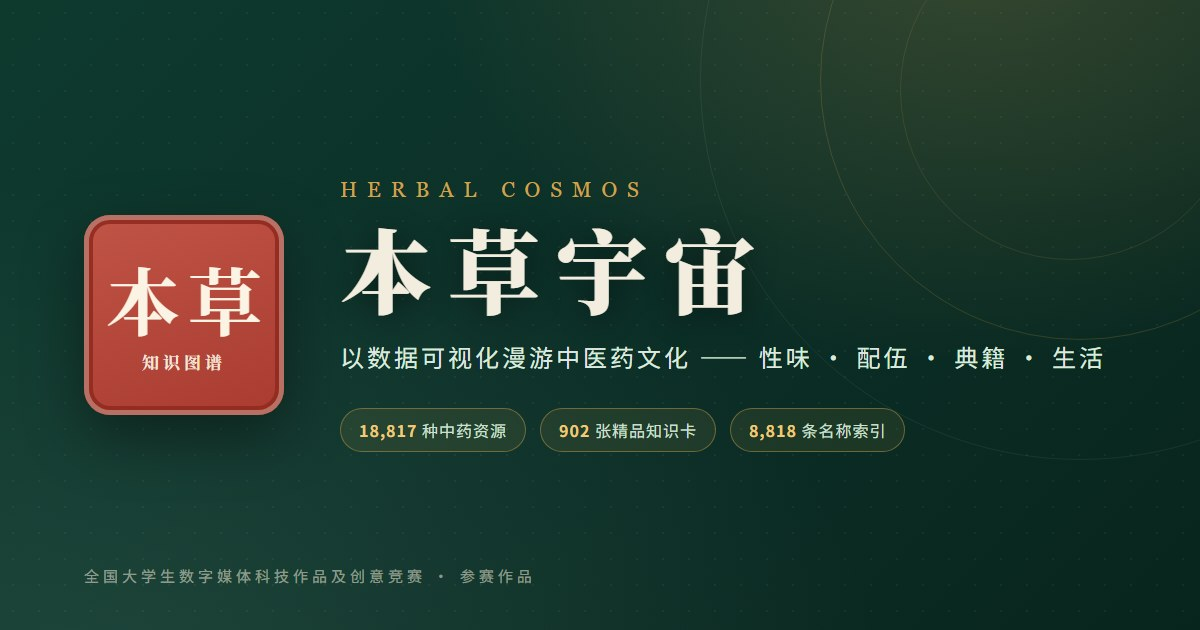
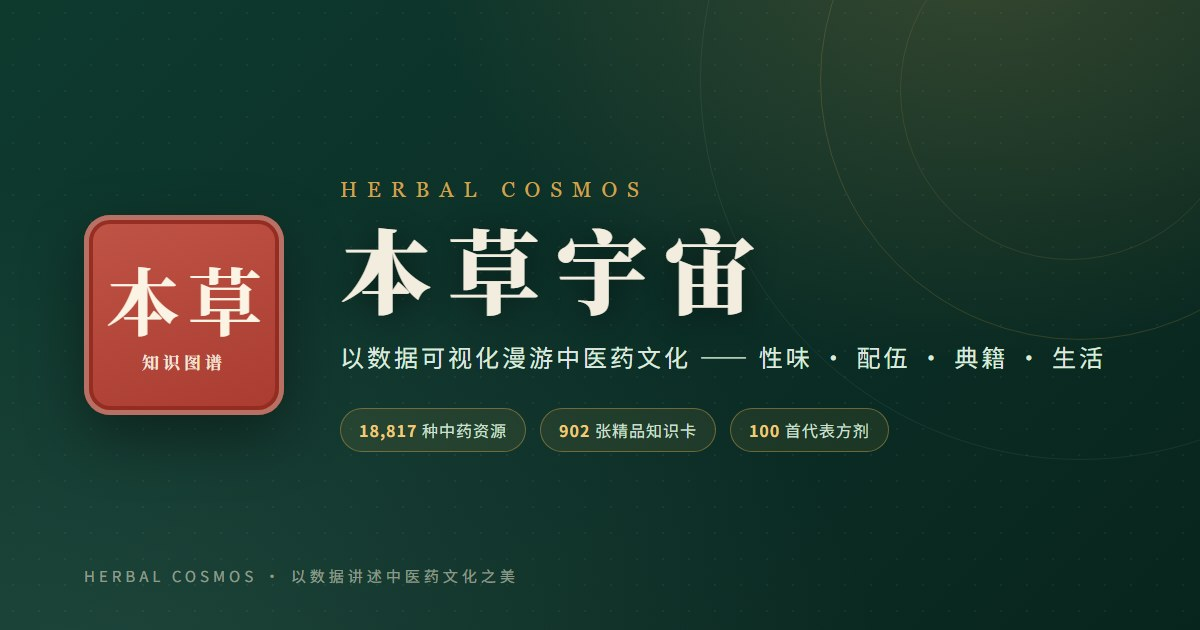
docs: 移除说明文档与分享横幅中的赛事相关表述
- README 项目简介、目录与章节改写为纯项目定位（'项目定位与后续规划'），全文无赛事字样
- og 分享横幅重制：底部文字改为项目语，数据徽章更新为当前口径（100 首代表方剂）
- 全仓扫描（md/html/json/js/webmanifest/yml）确认 0 处残留

验证：validate:app 0 issues、check:inline 0 issues、node tests 86/86

Changed region(s): [[0.0617, 0.9048, 0.4625, 0.9349], [0.6167, 0.6635, 0.74, 0.7238]]

diff --git a/README.md b/README.md
@@ -2,7 +2,7 @@
 
 > 以 18,817 种中药资源为星辰的文化知识图谱 —— 一个数据可视化、强交互的中医药科普网页应用。
 
-「本草宇宙」是一套**零框架、静态部署**的原生 Web 交互式数据可视化作品，把中药资源普查、药典典籍、方剂配伍、性味归经、食药物质目录等结构化知识，编织成"星云 → 配伍 → 生活 → 历史"的沉浸式叙事。它源于**全国大学生数字媒体科技作品及创意竞赛**赛道，以"新中式数据美学"呈现中医药文化的三重叙事：**天人合一、生生之道、薪火相传**。
+「本草宇宙」是一套**零框架、静态部署**的原生 Web 交互式数据可视化作品，把中药资源普查、药典典籍、方剂配伍、性味归经、食药物质目录等结构化知识，编织成"星云 → 配伍 → 生活 → 历史"的沉浸式叙事，以"新中式数据美学"呈现中医药文化的三重叙事：**天人合一、生生之道、薪火相传**。
 
 ---
 
@@ -27,7 +27,7 @@
 - [项目结构](#项目结构)
 - [快速开始](#快速开始)
 - [数据来源与合规声明](#数据来源与合规声明)
-- [竞赛与后续规划](#竞赛与后续规划)
+- [项目定位与后续规划](#项目定位与后续规划)
 
 ---
 
@@ -277,16 +277,16 @@ git diff --check
 
 ---
 
-## 竞赛与后续规划
+## 项目定位与后续规划
 
-本项目为**全国大学生数字媒体科技作品及创意竞赛**参赛作品，叙事主线：
+项目以公开、可追溯的数据底座呈现中医药文化的叙事主线：
 
 1. **天人合一**：资料记录地区 × 应季本草（地域记录与节气叙事的对应秩序，不宣称道地产地）。
 2. **生生之道**：单味药 → 方剂配伍，体现"君臣佐使"的组织智慧。
 3. **薪火相传**：从《神农本草经》到《中国药典》的两千年典籍传承。
 
-**已交付（P0 必保）**：药材星云、配伍网络、药食同源、典籍时光 + 性味归经、病证药链、详情联动、收藏。
-**规划中（P1/P2 加分）**：炮制时间线、非遗专题深化、AIGC 问答助手、全量 18,817 种数据的懒加载分层（Web Worker 粒子 + 空间索引）。
+**已交付**：药材星云、配伍网络、药食同源、典籍时光 + 性味归经、病证药链、详情联动、收藏。
+**规划中**：炮制时间线、非遗专题深化、AIGC 问答助手、全量 18,817 种数据的懒加载分层（Web Worker 粒子 + 空间索引）。
 
 ---
 
